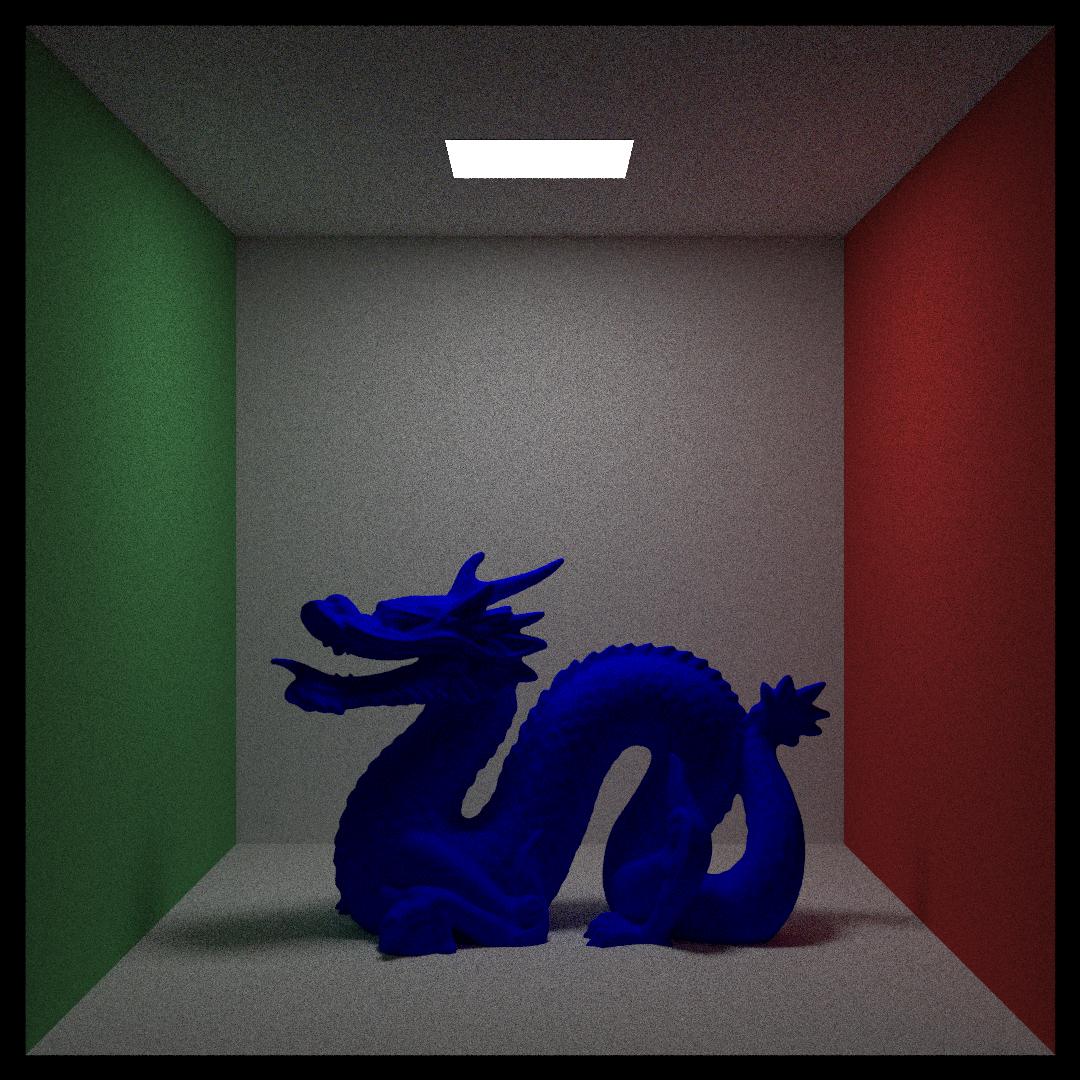
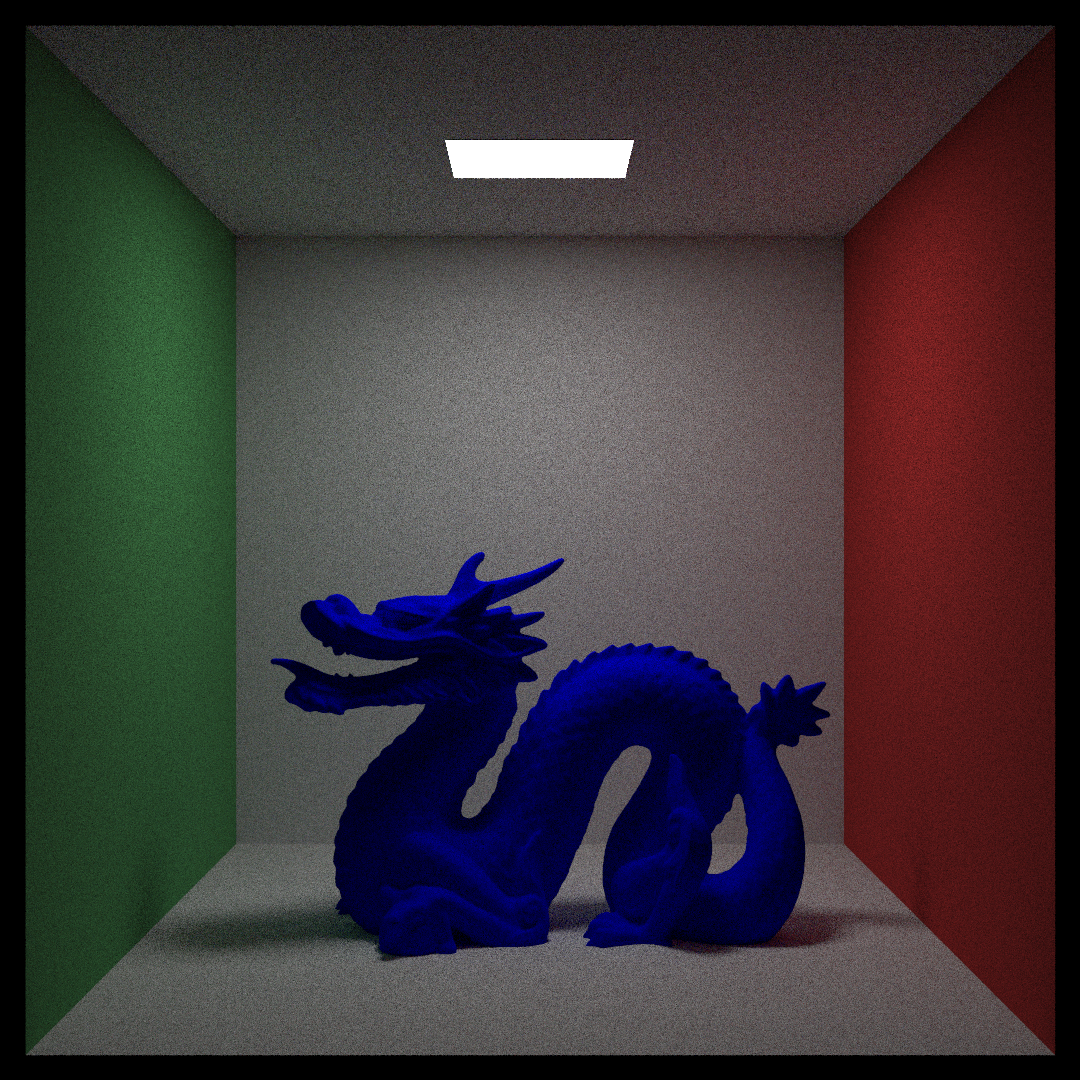
did more cleanup

Changed region(s): [[0.0306, 0.0306, 0.9778, 0.9778], [0.0917, 0.2444, 0.1833, 0.4583]]

diff --git a/kernels/src/hitables/mod.rs b/kernels/src/hitables/mod.rs
@@ -286,29 +286,6 @@ impl<'b> HitKind<'b> {
         range: Range<Real>,
         rng: &mut Random,
     ) -> Option<HitRecord<'a>> {
-        Self::hit_recursive(self, ray, range, rng)
-    }
-
-    pub fn pdf_value(&self, origin: &Point3, direction: &Vec3, rng: &mut Random) -> Real {
-        Self::pdf_value_recursive(self, origin, direction, rng)
-    }
-
-    pub fn random(&self, origin: &Point3, rng: &mut Random) -> Vec3 {
-        Self::random_recursive(self, origin, rng)
-    }
-
-    #[cfg(not(target_os = "cuda"))]
-    pub fn get_lights(&'b self) -> HitKind<'b> {
-        let lights = self.get_lights_inner();
-        HitableList::new(lights).into()
-    }
-
-    fn hit_recursive<'a>(
-        hitkind: &'a HitKind<'a>,
-        ray: Ray,
-        range: Range<Real>,
-        rng: &mut Random,
-    ) -> Option<HitRecord<'a>> {
         let mut recurse_impl = HitRecursive {
             ray: ray,
             range: range,
@@ -317,16 +294,11 @@ impl<'b> HitKind<'b> {
             extra_stack: Stack::new(),
         };
 
-        Self::use_stack(hitkind, &mut recurse_impl);
+        Self::use_stack(self, &mut recurse_impl);
         return recurse_impl.hit_record;
     }
 
-    fn pdf_value_recursive<'a>(
-        hitkind: &'a HitKind<'a>,
-        origin: &Point3,
-        direction: &Vec3,
-        rng: &mut Random,
-    ) -> Real {
+    pub fn pdf_value(&self, origin: &Point3, direction: &Vec3, rng: &mut Random) -> Real {
         let mut recurse_impl = PDFValueRecursive {
             origin: origin.clone(),
             direction: direction.clone(),
@@ -334,19 +306,25 @@ impl<'b> HitKind<'b> {
             rng: rng,
         };
 
-        Self::use_stack(hitkind, &mut recurse_impl);
+        Self::use_stack(self, &mut recurse_impl);
         return recurse_impl.current_value;
     }
 
-    fn random_recursive<'a>(hitkind: &'a HitKind<'a>, origin: &Point3, rng: &mut Random) -> Vec3 {
+    pub fn random(&self, origin: &Point3, rng: &mut Random) -> Vec3 {
         let mut recurse_impl = PDFRandomRecursive {
             origin: origin.clone(),
             current_value: Vec3::zero(),
             rng: rng,
         };
 
-        Self::use_stack(hitkind, &mut recurse_impl);
+        Self::use_stack(self, &mut recurse_impl);
         return recurse_impl.current_value;
+    }
+
+    #[cfg(not(target_os = "cuda"))]
+    pub fn get_lights(&'b self) -> HitKind<'b> {
+        let lights = self.get_lights_inner();
+        HitableList::new(lights).into()
     }
 
     fn use_stack<'a, RecursiveImpl: Recursive<'a>>(
